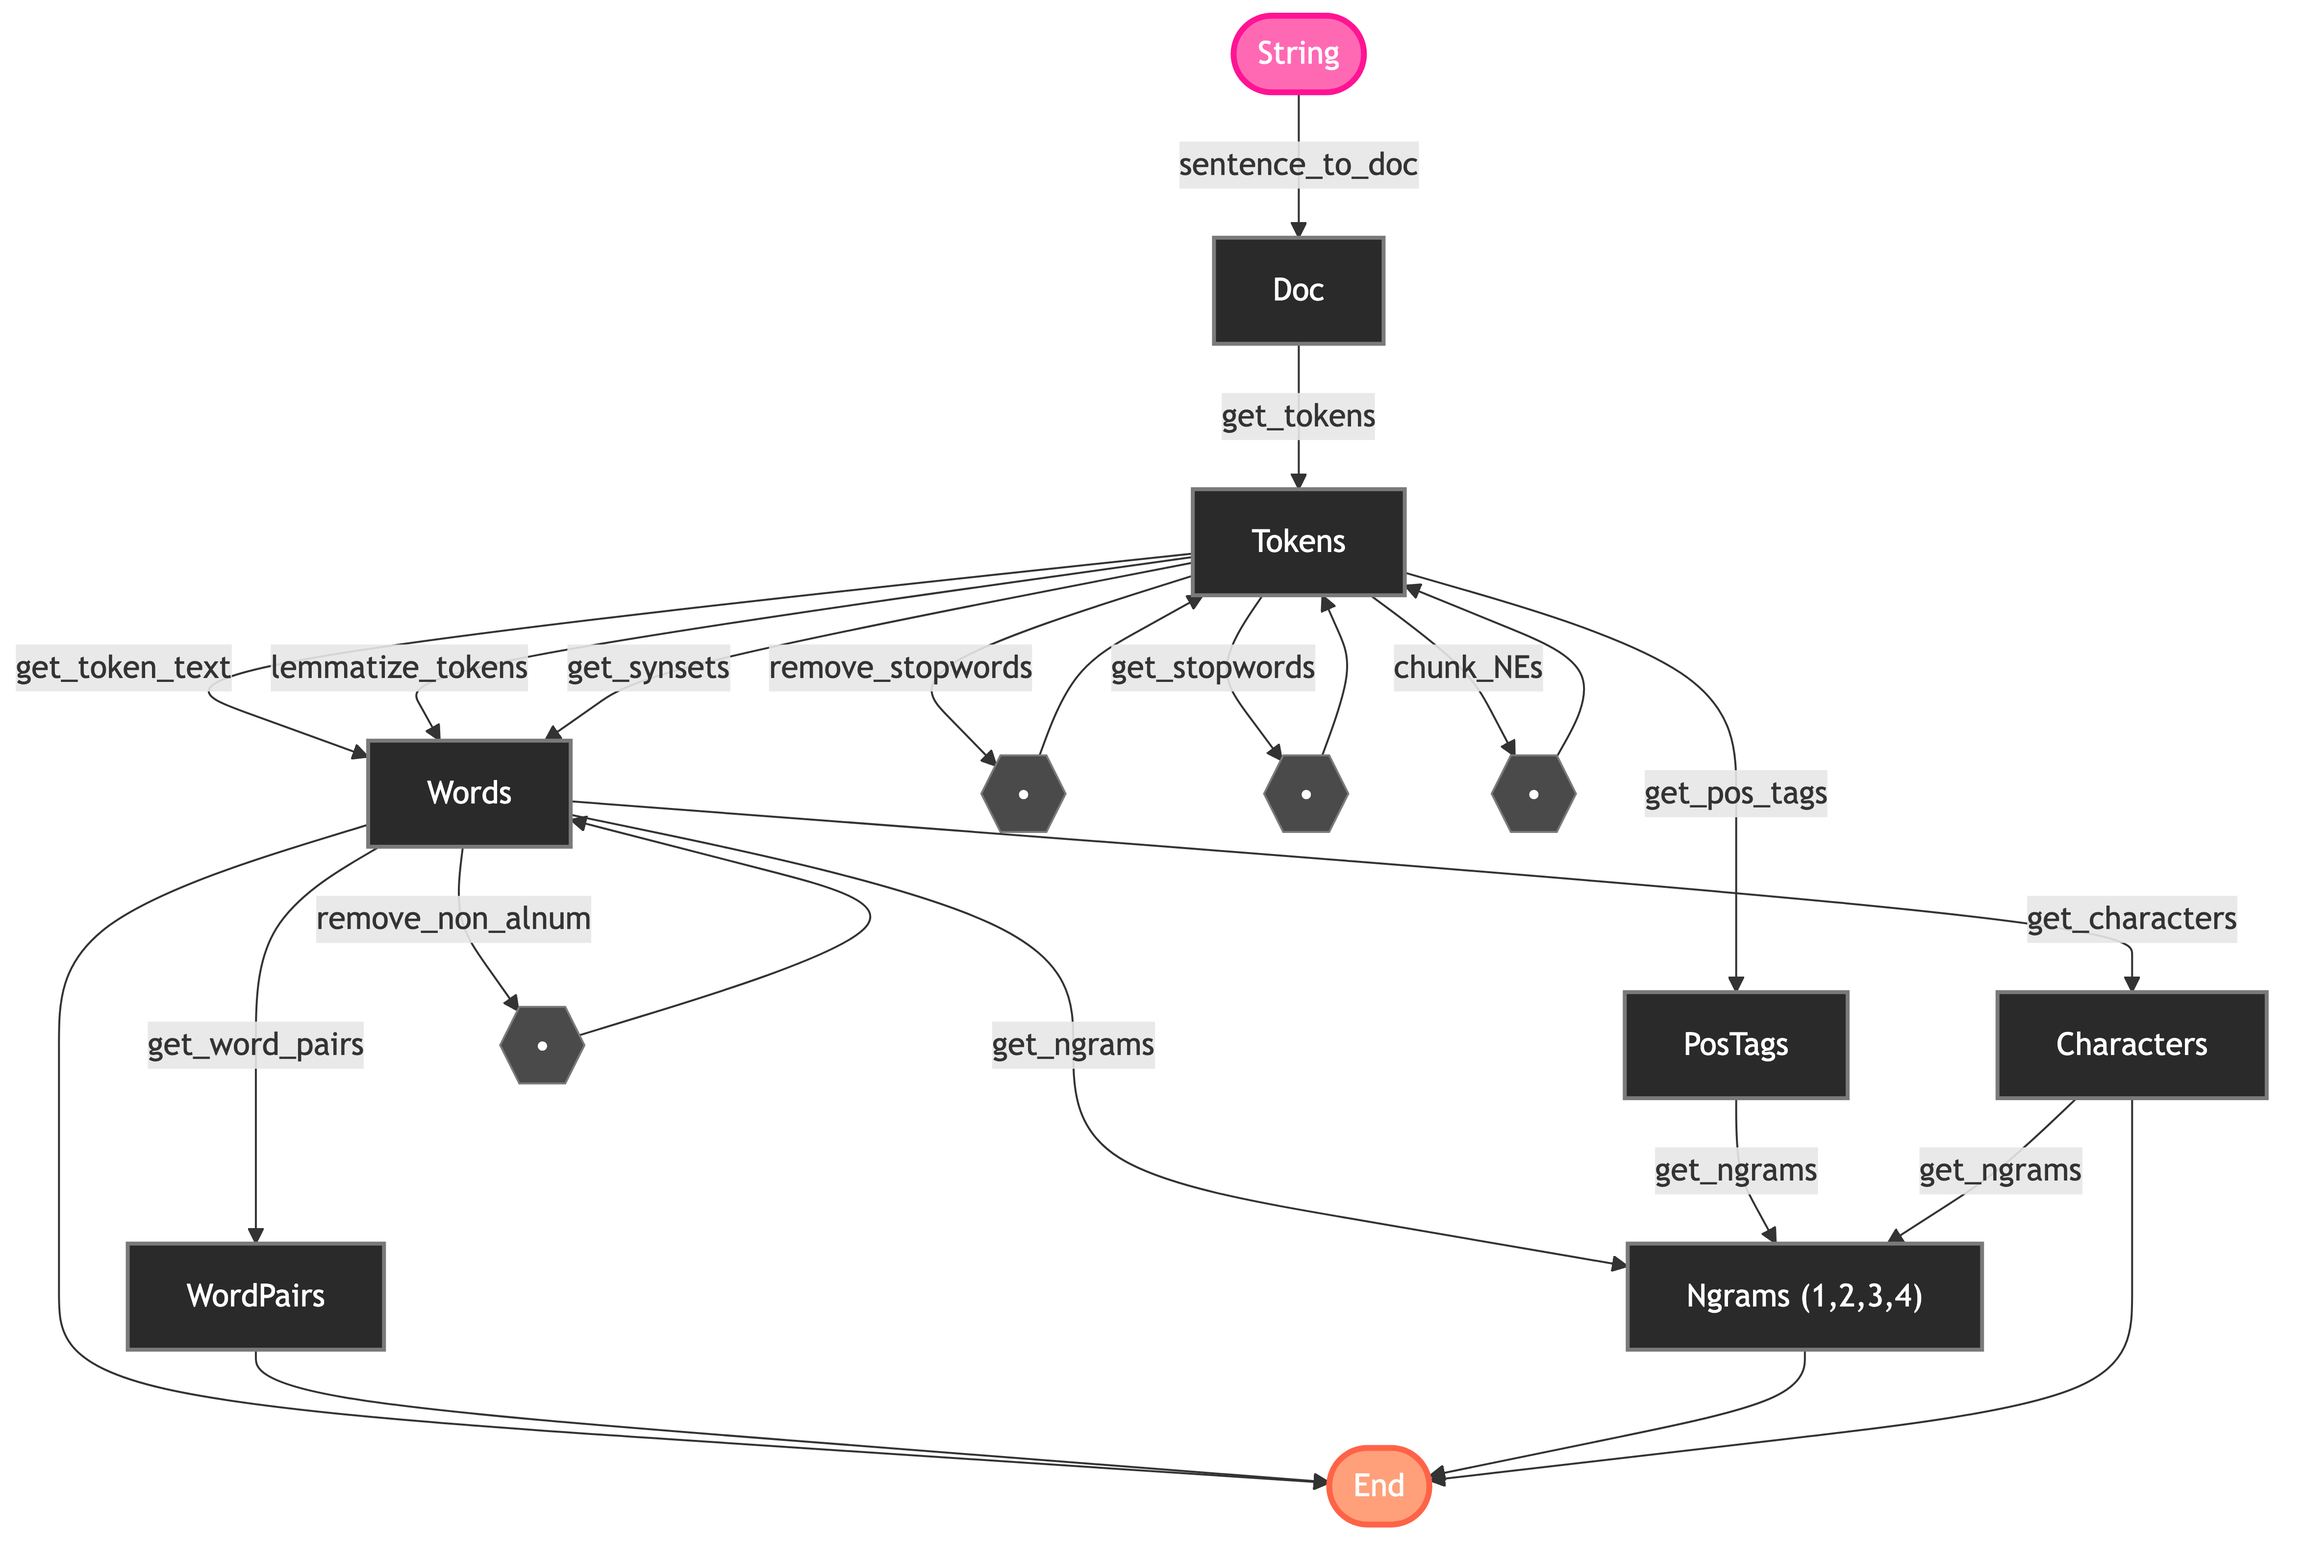
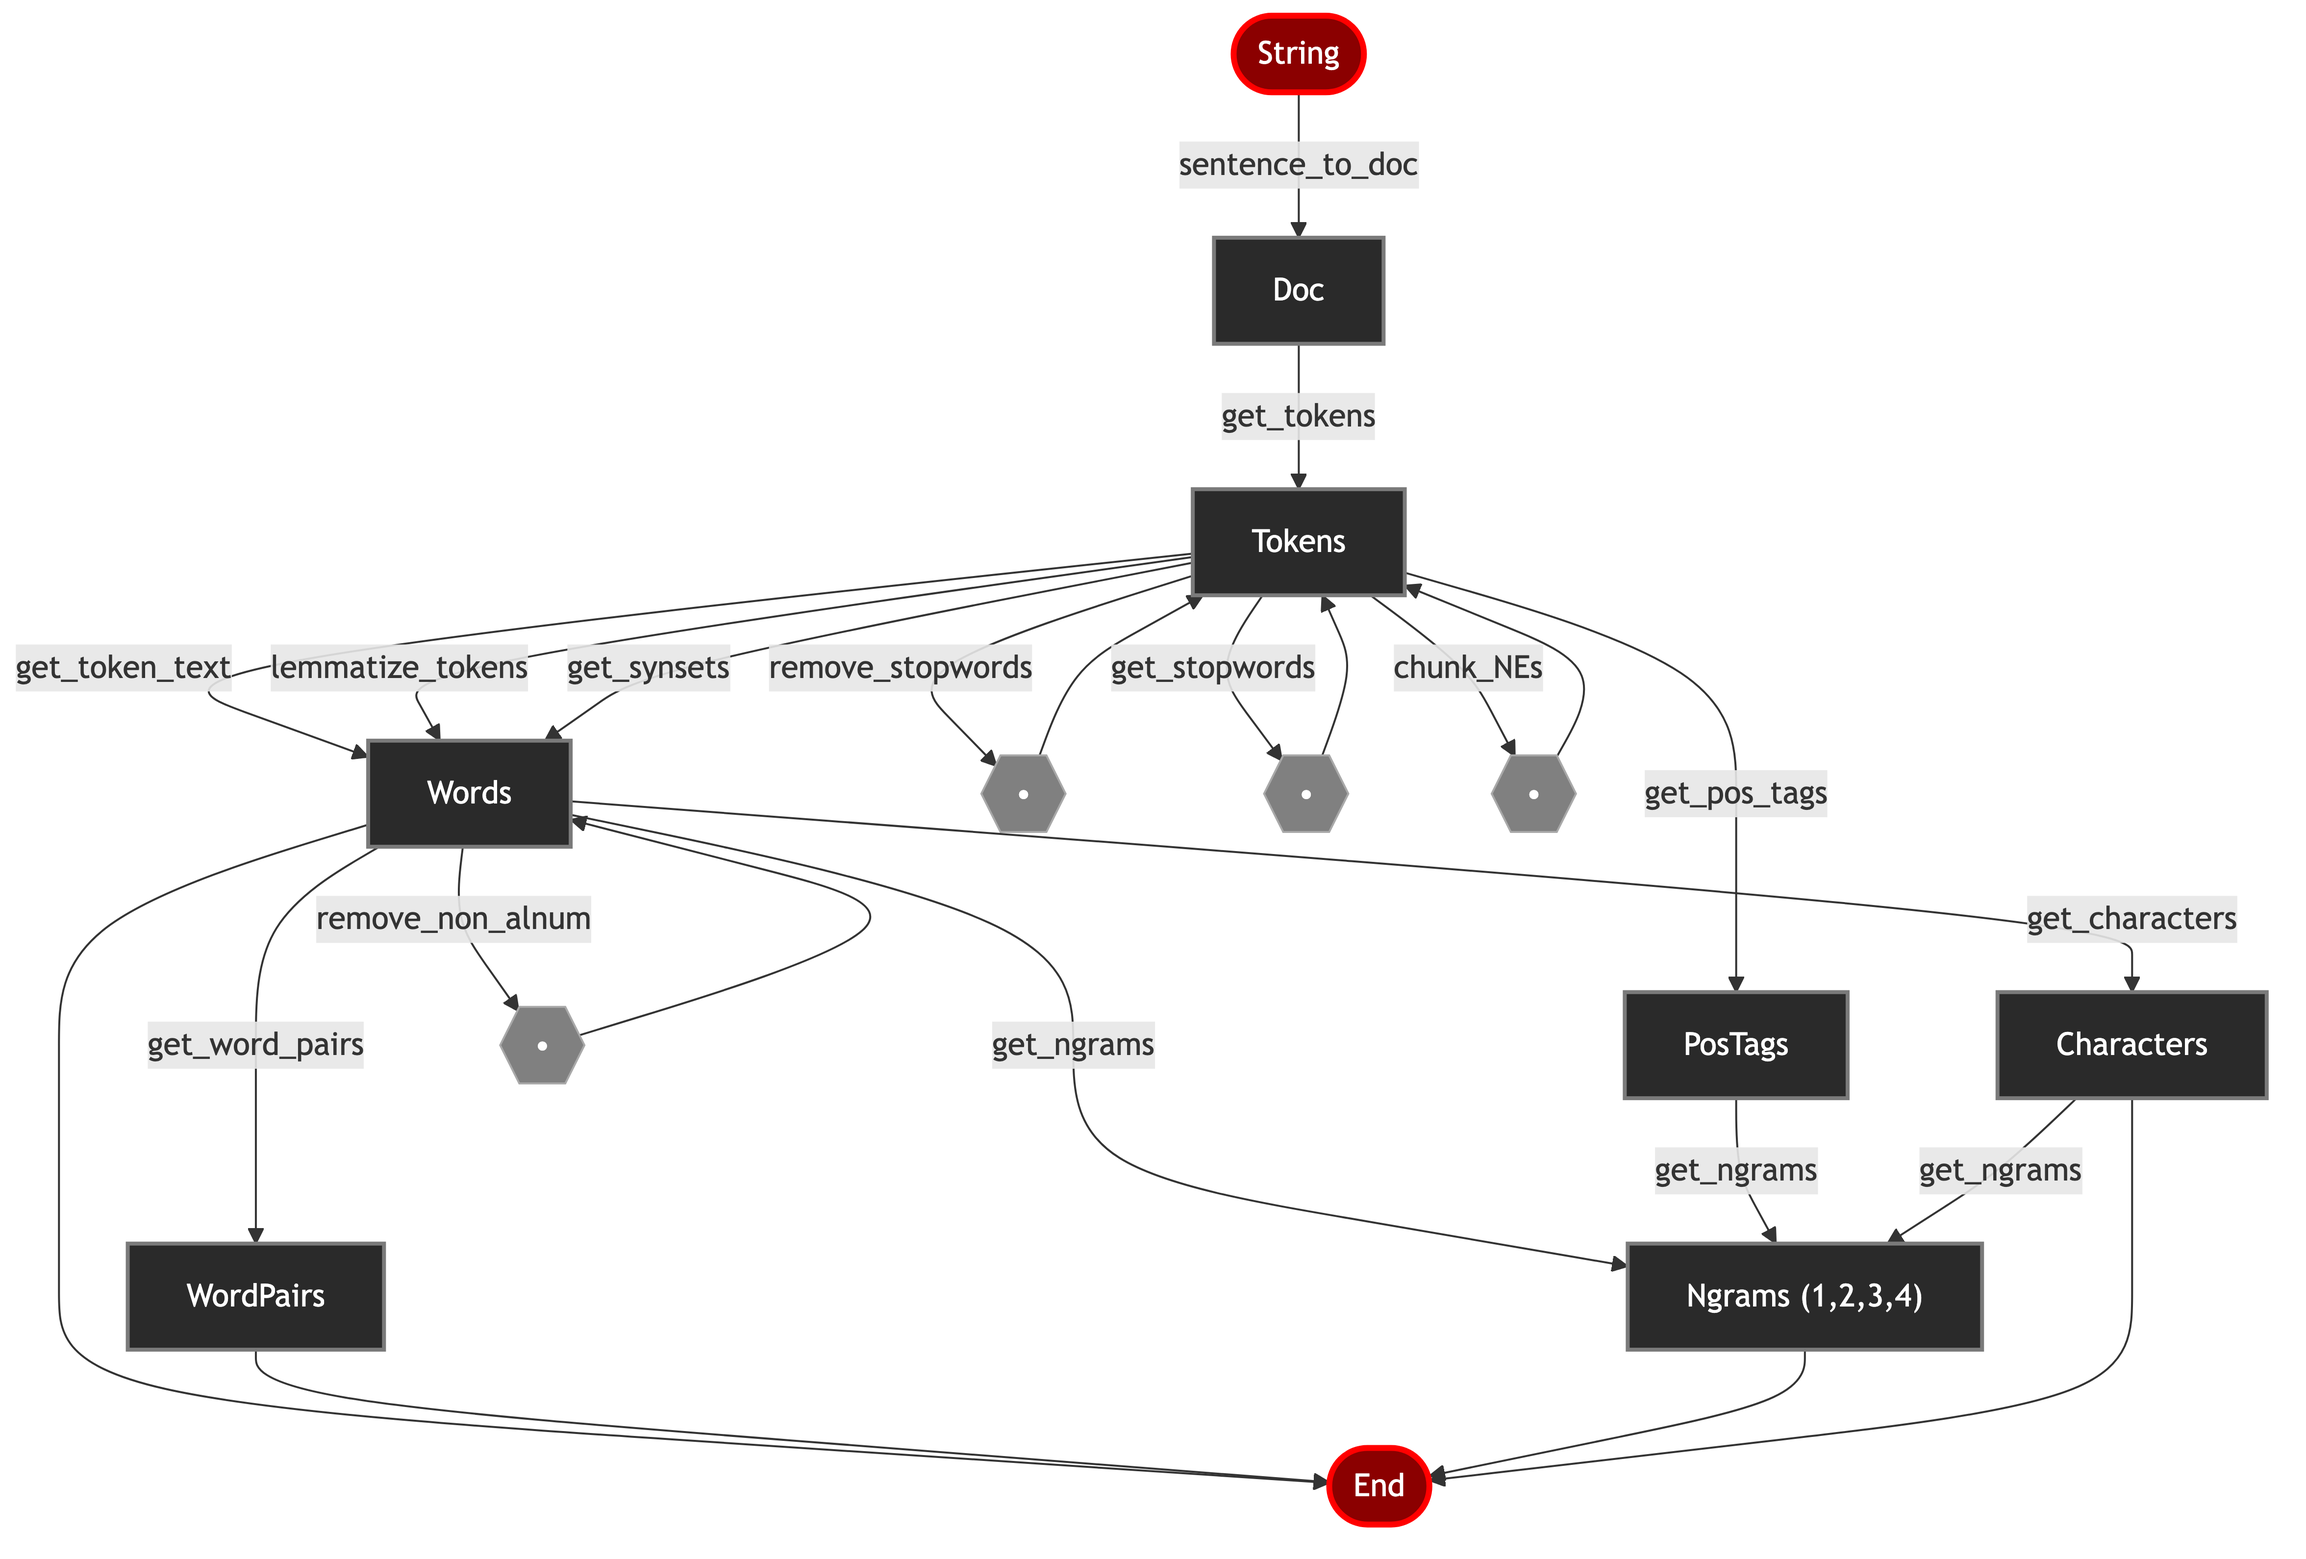
update styles

diff --git a/project/reports/figures/mermaid/permutations.md b/project/reports/figures/mermaid/permutations.md
@@ -2,9 +2,9 @@
 flowchart TD
     %% Styling
     classDef default fill:#2A2A2A,stroke:#7A7A7A,stroke-width:2px,color:white
-    classDef start fill:#FF69B4,stroke:#FF1493,stroke-width:3px,color:white
-    classDef final fill:#FFA07A,stroke:#FF6347,stroke-width:3px,color:white
-    classDef waypoint fill:#4A4A4A,stroke:#7A7A7A,stroke-width:1px,color:white
+    classDef start fill:#8B0000,stroke:#FF0000,stroke-width:3px,color:white
+    classDef final fill:#8B0000,stroke:#FF0000,stroke-width:3px,color:white
+    classDef waypoint fill:#808080,stroke:#A9A9A9,stroke-width:1px,color:white
 
     %% Nodes
     Start([String]):::start
